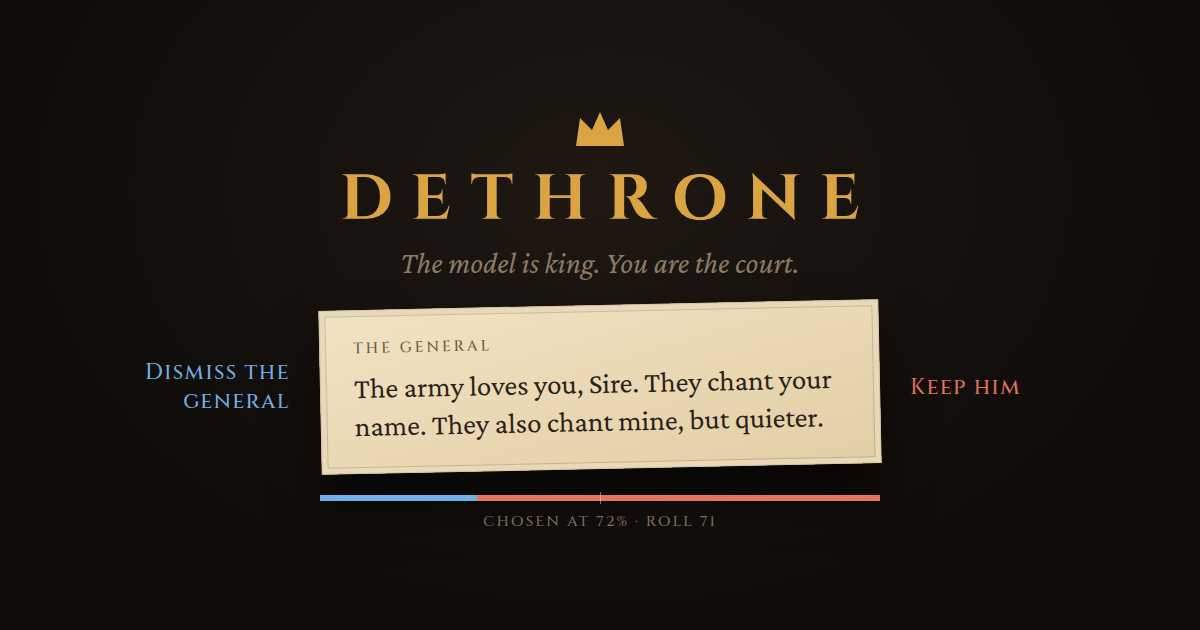
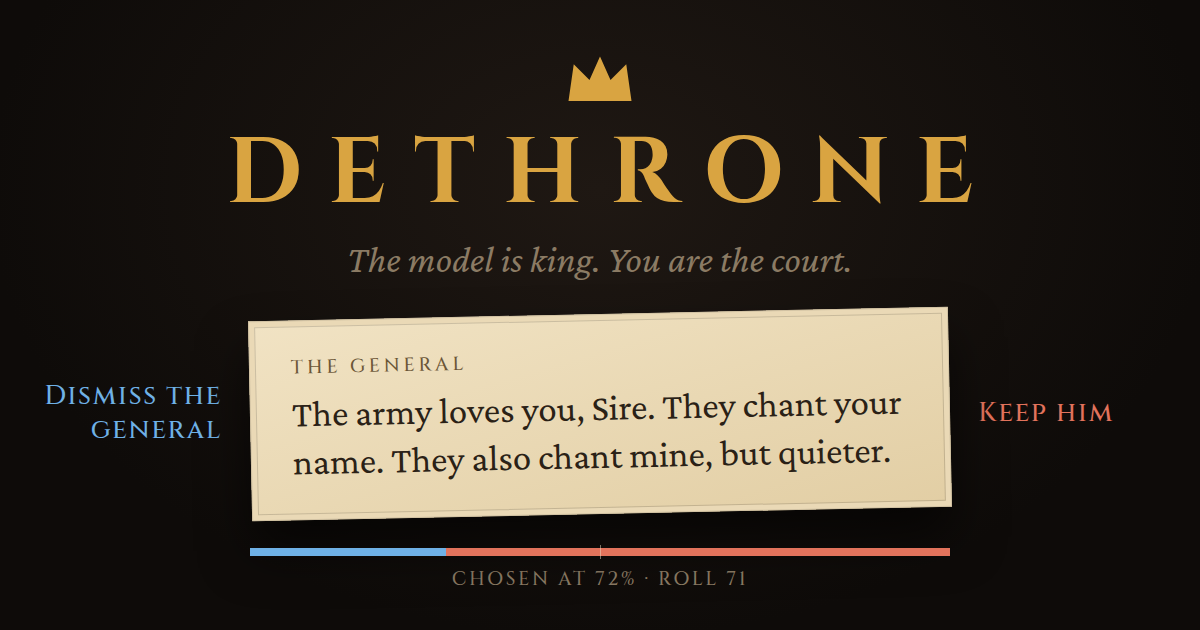
Share image: fill the frame

diff --git a/scripts/og.html b/scripts/og.html
@@ -9,22 +9,22 @@
 :root { --bg: #0e0b09; --ink: #e9dcc3; --muted: #8b7b64; --dim: #4a3f33; --gold: #d9a441; --left: #6fb1e6; --right: #e2735c; --display: 'Cinzel', Georgia, serif; --body: 'Crimson Pro', Georgia, serif; }
 * { box-sizing: border-box; }
 html, body { margin: 0; width: 100vw; height: 100vh; overflow: hidden; background: var(--bg); color: var(--ink); font-family: var(--body); }
-body { background: radial-gradient(ellipse at 50% 30%, #1f1813 0%, var(--bg) 72%); display: flex; flex-direction: column; align-items: center; justify-content: center; gap: 26px; }
-.crown svg { width: 64px; height: 64px; display: block; margin: 0 auto 6px; }
-.title { font-family: var(--display); font-weight: 700; font-size: 64px; letter-spacing: .3em; padding-left: .3em; color: var(--gold); text-transform: uppercase; text-align: center; line-height: 1; }
-.tag { font-style: italic; font-size: 30px; color: var(--muted); text-align: center; margin-top: 14px; }
-.row { display: grid; grid-template-columns: 1fr 560px 1fr; align-items: center; gap: 30px; width: 1080px; }
-.option { font-family: var(--display); font-size: 22px; letter-spacing: .06em; }
+body { background: radial-gradient(ellipse at 50% 30%, #1f1813 0%, var(--bg) 72%); display: flex; flex-direction: column; align-items: center; justify-content: center; gap: 34px; }
+.crown svg { width: 84px; height: 84px; display: block; margin: 0 auto 6px; }
+.title { font-family: var(--display); font-weight: 700; font-size: 92px; letter-spacing: .3em; padding-left: .3em; color: var(--gold); text-transform: uppercase; text-align: center; line-height: 1; }
+.tag { font-style: italic; font-size: 38px; color: var(--muted); text-align: center; margin-top: 18px; }
+.row { display: grid; grid-template-columns: 1fr 700px 1fr; align-items: center; gap: 28px; width: 1136px; }
+.option { font-family: var(--display); font-size: 27px; line-height: 1.25; letter-spacing: .06em; }
 .option.left { text-align: right; color: var(--left); }
 .option.right { text-align: left; color: var(--right); }
-.card { background: linear-gradient(165deg, #f1e3c4 0%, #e2cea4 100%); color: #2a2116; padding: 28px 34px; box-shadow: 0 30px 50px rgba(0,0,0,.6), inset 0 0 0 1px rgba(0,0,0,.1), inset 0 0 0 6px #ead9b6, inset 0 0 0 7px rgba(0,0,0,.15); transform: rotate(-1.2deg); }
-.speaker { font-family: var(--display); font-size: 15px; letter-spacing: .2em; text-transform: uppercase; color: #6b5637; margin-bottom: 10px; }
-.message { margin: 0; font-size: 29px; line-height: 1.32; }
-.decide { width: 560px; }
-.bar { position: relative; height: 6px; background: var(--right); }
+.card { background: linear-gradient(165deg, #f1e3c4 0%, #e2cea4 100%); color: #2a2116; padding: 34px 42px; box-shadow: 0 30px 50px rgba(0,0,0,.6), inset 0 0 0 1px rgba(0,0,0,.1), inset 0 0 0 6px #ead9b6, inset 0 0 0 7px rgba(0,0,0,.15); transform: rotate(-1.2deg); }
+.speaker { font-family: var(--display); font-size: 19px; letter-spacing: .2em; text-transform: uppercase; color: #6b5637; margin-bottom: 10px; }
+.message { margin: 0; font-size: 37px; line-height: 1.3; }
+.decide { width: 700px; }
+.bar { position: relative; height: 8px; background: var(--right); }
 .fill { position: absolute; inset: 0 auto 0 0; width: 28%; background: var(--left); }
 .mid { position: absolute; left: 50%; top: -3px; bottom: -3px; width: 1px; background: var(--ink); opacity: .5; }
-.readout { font-family: var(--display); font-size: 15px; letter-spacing: .14em; text-transform: uppercase; color: var(--muted); text-align: center; margin-top: 10px; }
+.readout { font-family: var(--display); font-size: 19px; letter-spacing: .14em; text-transform: uppercase; color: var(--muted); text-align: center; margin-top: 10px; }
 </style>
 </head>
 <body>
